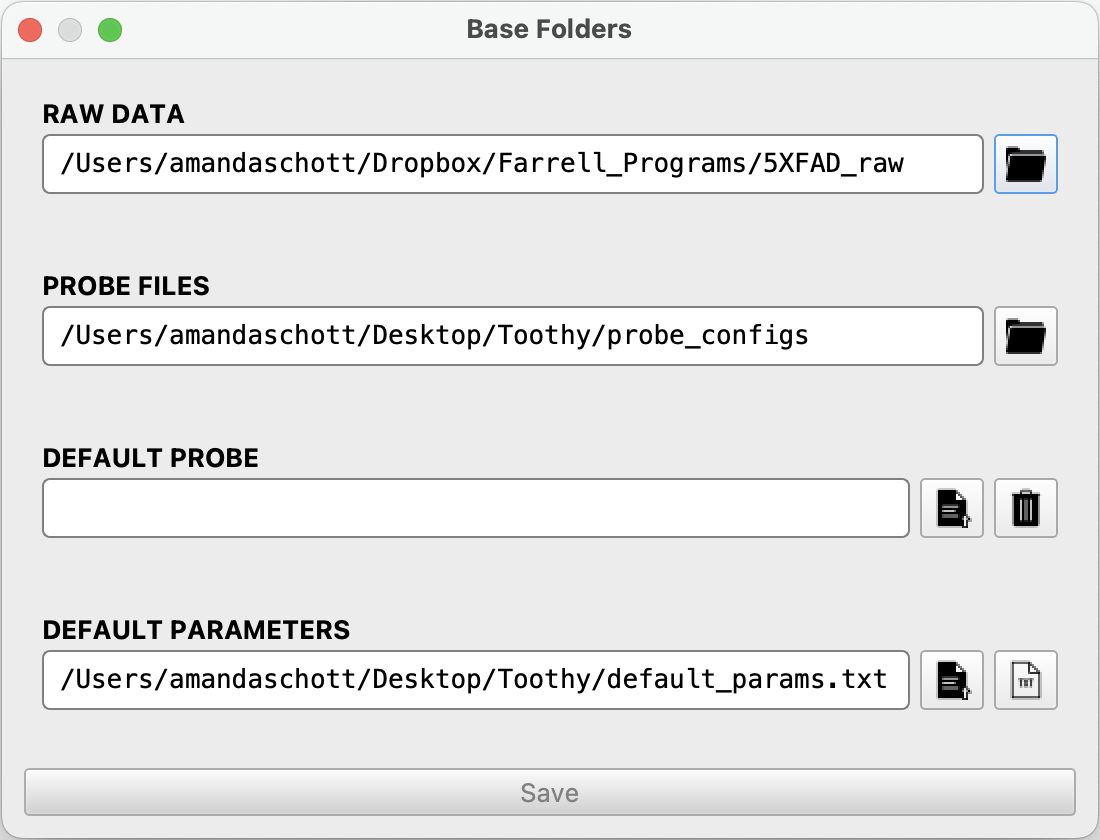
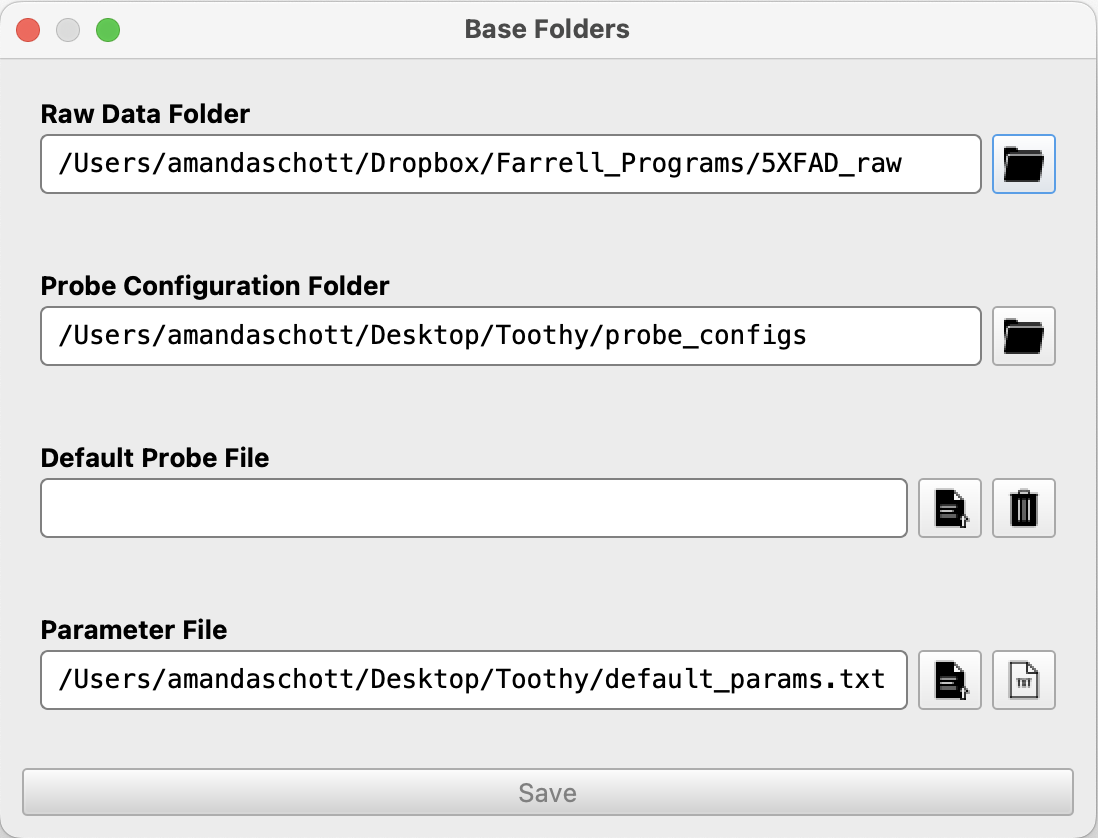
clarified base "folders"

diff --git a/README.md b/README.md
@@ -34,14 +34,14 @@ The "Base Folders" window allows users to set default folders and files for data
 
 <p align="center"><img src="_img/base_folders.png" width=50%/></p>
 
-<b><ins>Raw Data</ins>:</b> Select the directory where your raw data files are stored; the default location is the Toothy folder itself. Updating this location is optional but convenient for selecting raw recording data for initial processing.
+<b><ins>Raw Data Folder</ins>:</b> Select the directory where your raw data files are stored; the default location is the Toothy folder itself. Updating this location is optional but convenient when selecting raw recording data for initial processing.
 
-<b><ins>Probe Files</ins>:</b> Select the directory where your probe configuration files will be stored. The application automatically creates a ```probe_configs``` directory within the Toothy folder and creates a ```demo_probe_config.json``` file as an example probe object.
+<b><ins>Probe Configuration Folder</ins>:</b> Select the directory where your probe configuration files will be stored. The application automatically creates a ```probe_configs``` directory within the Toothy folder and creates a ```demo_probe_config.json``` file as an example probe object.
 
-<b><ins>Default Probe</ins>:</b> If your recordings tend to use the same probe, you can optionally select a default probe configuration file that will be automatically loaded during the data processing phase. If this field is blank (the default state), probes will be loaded manually for each recording.
+<b><ins>Default Probe File</ins>:</b> If your recordings tend to use the same probe, you can optionally select a default probe configuration file that will be automatically loaded during the data processing phase. If this field is blank (the default state), probes will be loaded manually for each recording.
 
 <p></p>
-<b><ins>Default Parameters</ins>:</b> Select the TXT file containing the parameter values that you want to use for data processing. The application automatically generates a <code>default_params.txt</code> file with reasonable initial values, which can be changed in the next step. To generate a new parameter file with default values, press the <img src="_img/load_txt.png" width=2%/> button.
+<b><ins>Parameter File</ins>:</b> Select the TXT file containing the parameter values that you want to use for data processing. The application automatically generates a <code>default_params.txt</code> file with reasonable initial values, which can be changed in the next step. To generate a new parameter file with default values, press the <img src="_img/load_txt.png" width=2%/> button.
 
 ---
 
